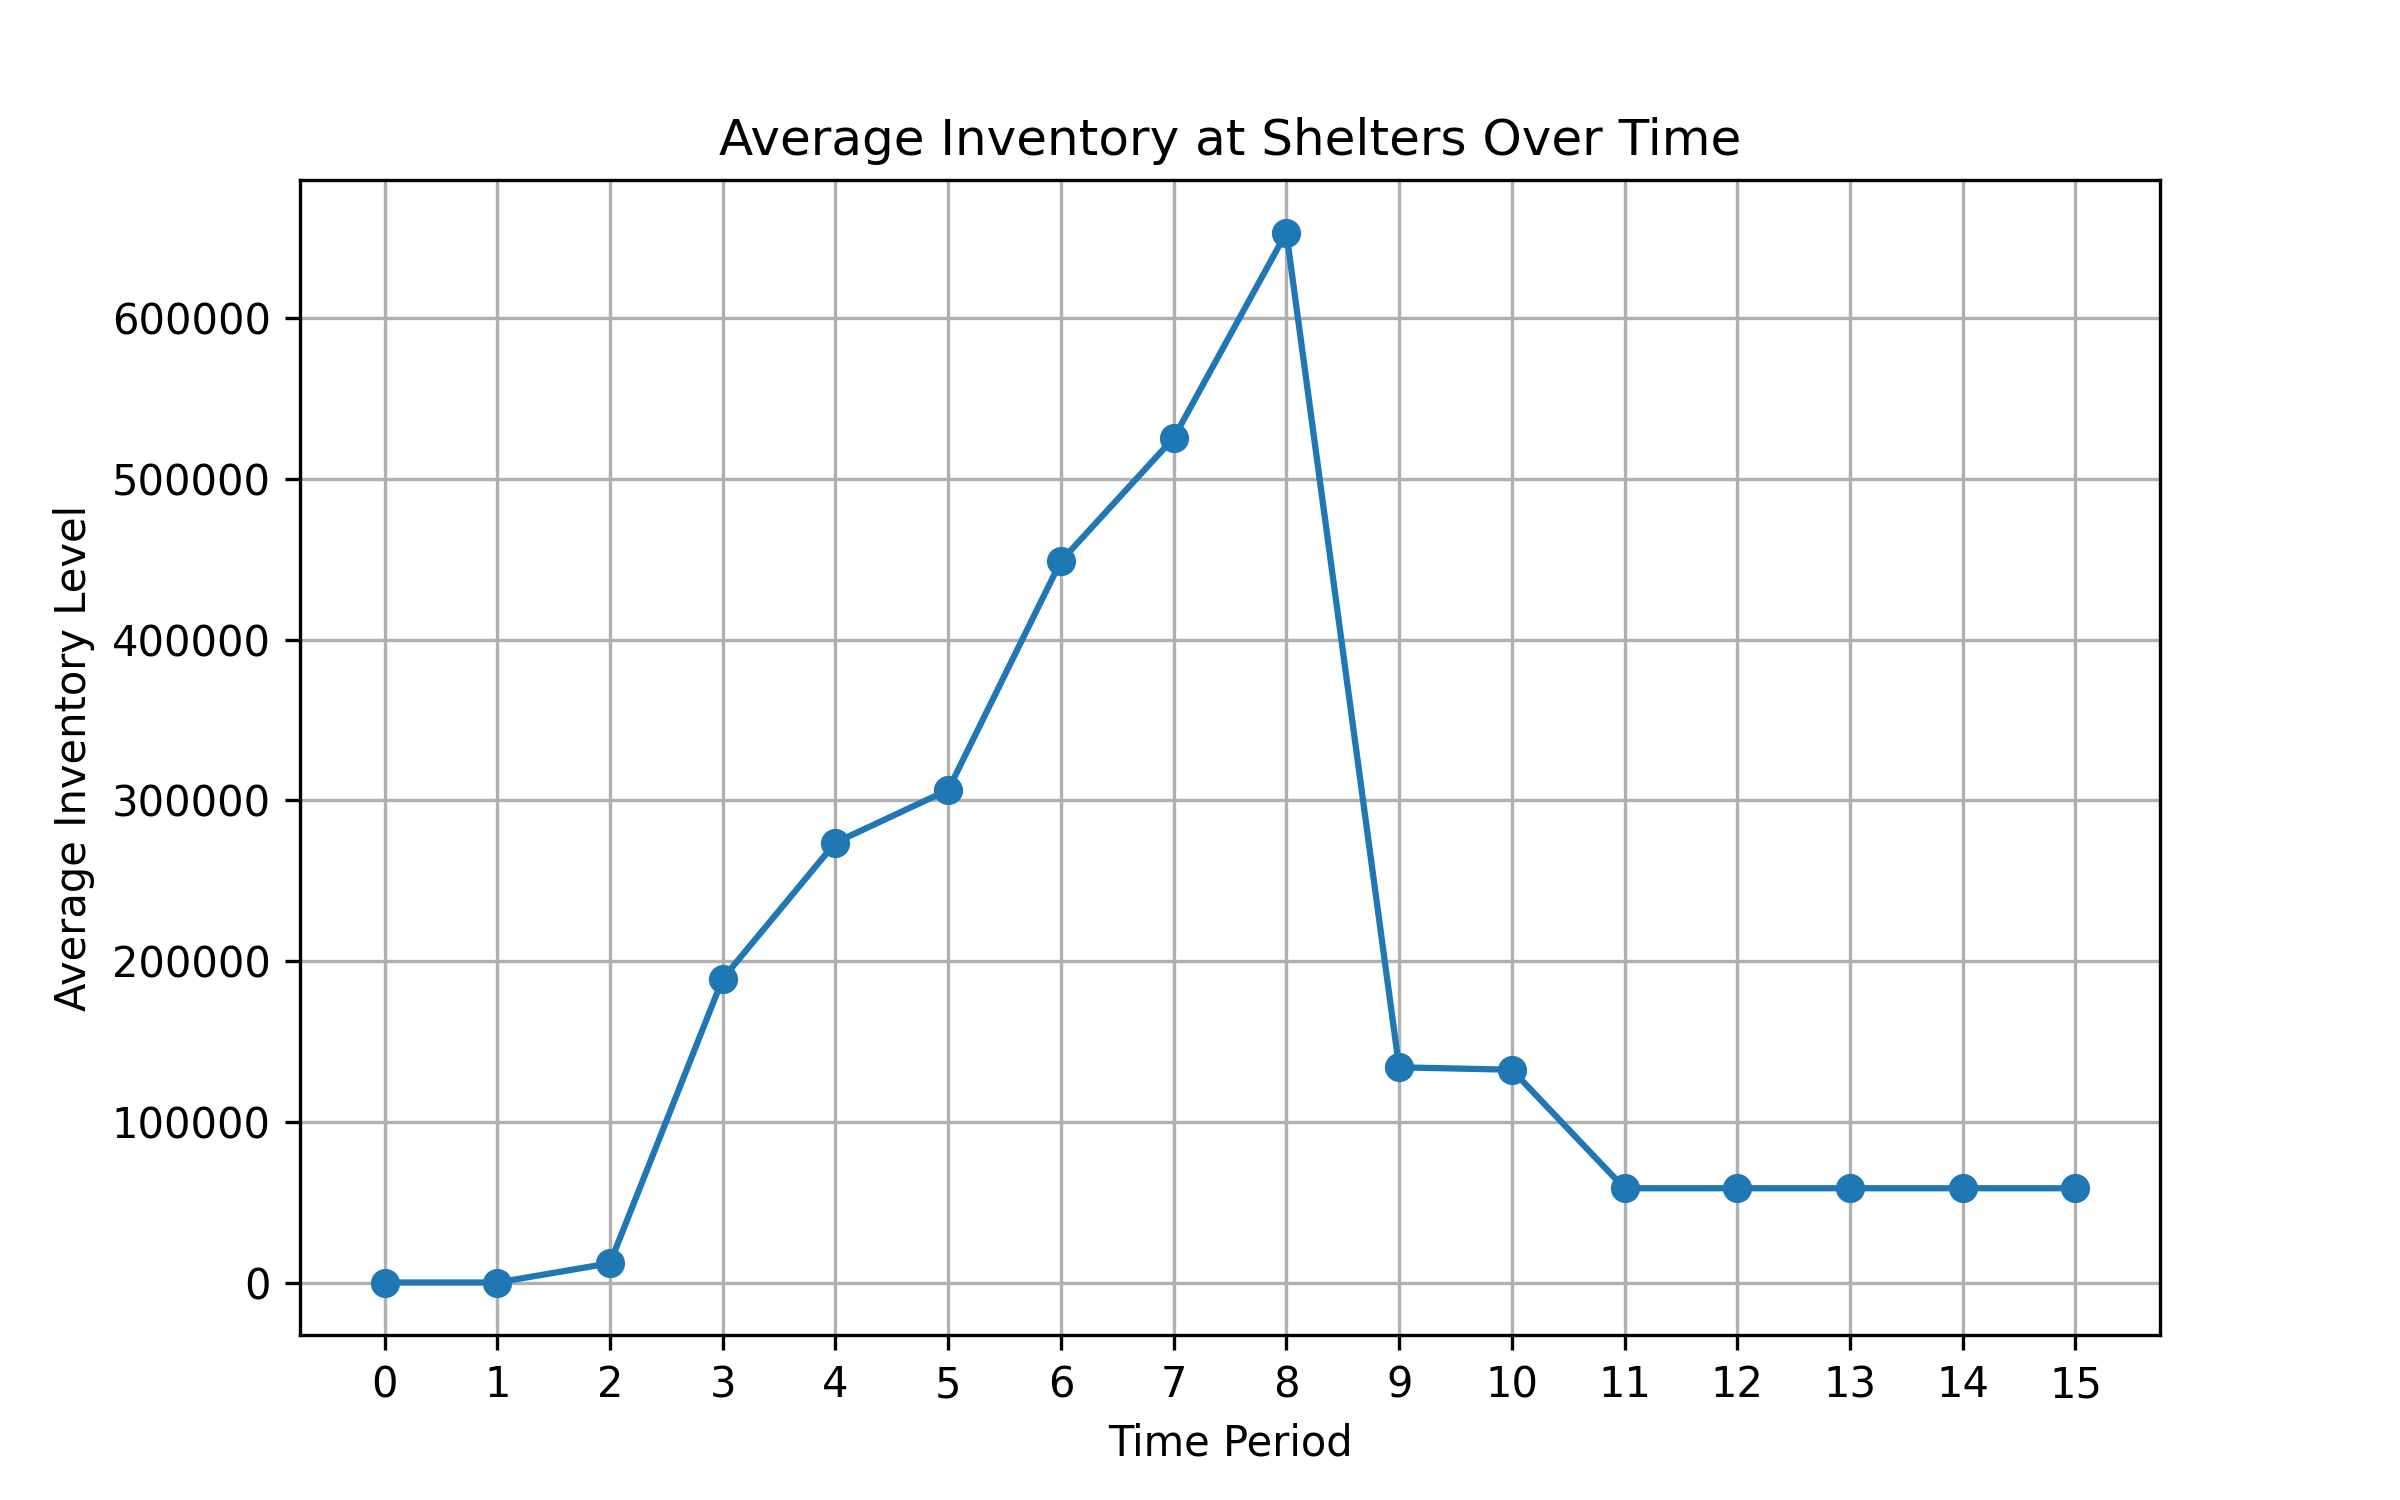
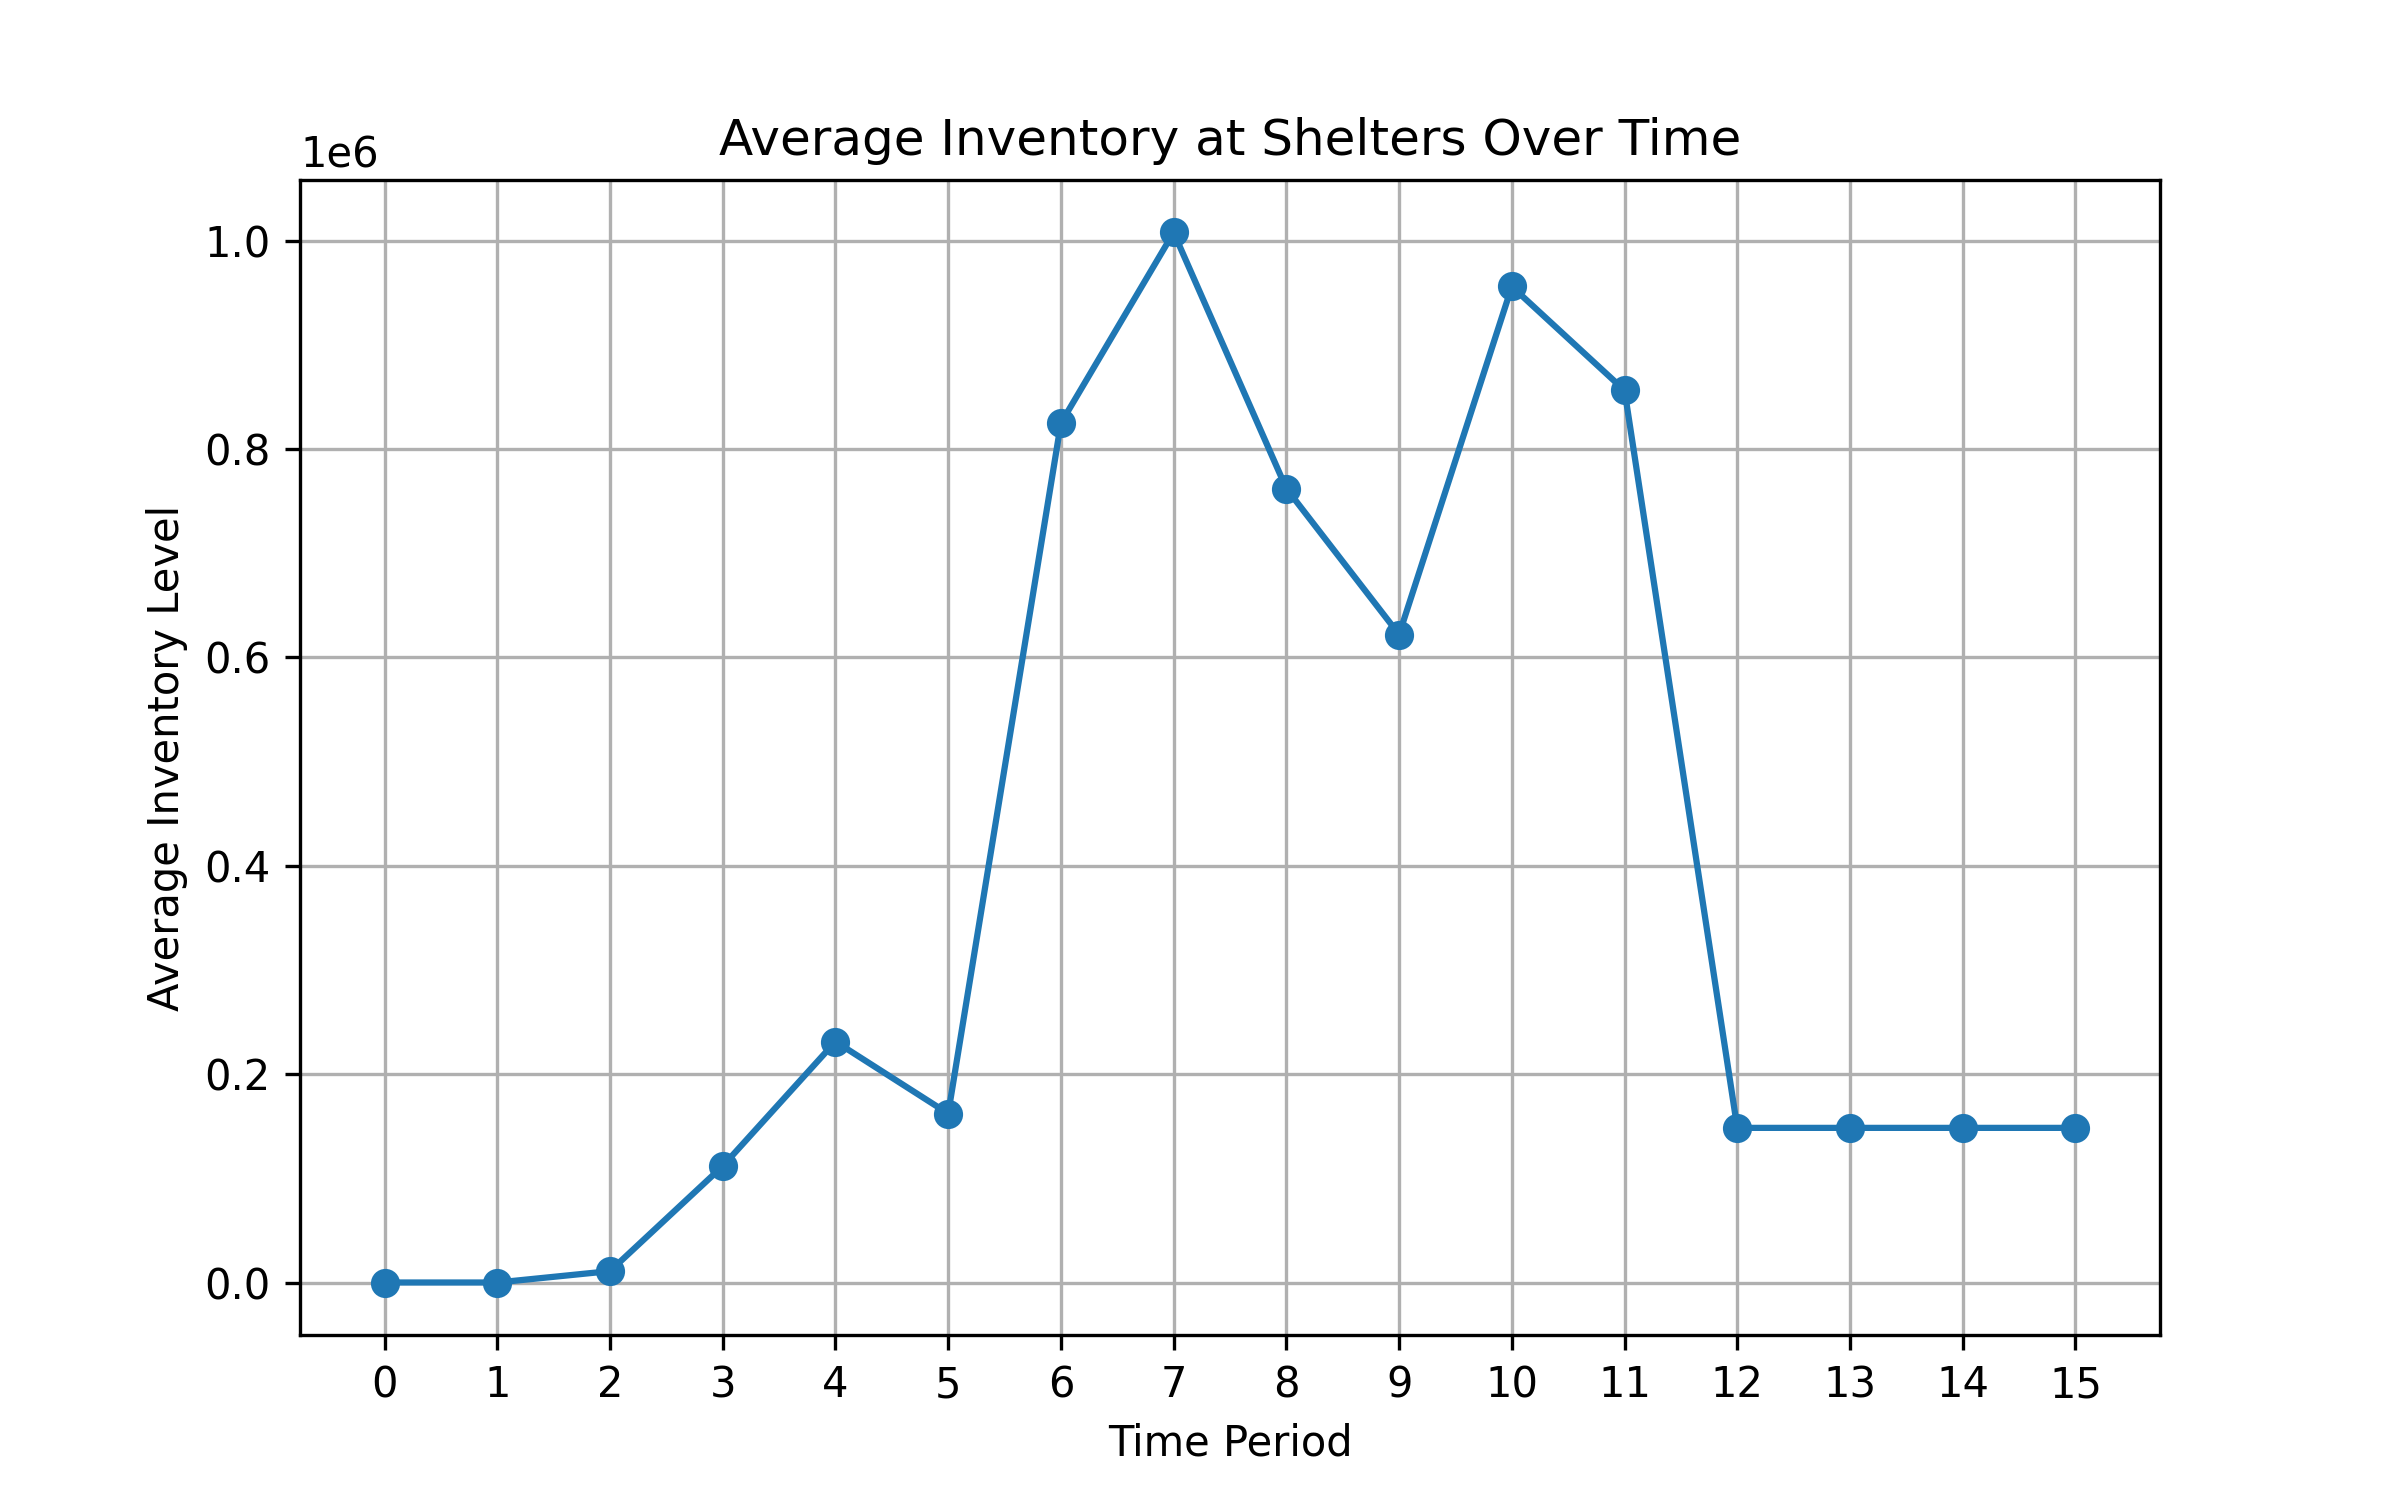
Finalizing network expansion

diff --git a/mssp/main.py b/mssp/main.py
@@ -39,6 +39,7 @@ if __name__ == "__main__":
     parser.add_argument("-tilda", "--t_tilda", type=int, help="Waiting time (t_tilda) before starting the Wait-and-See (WS) 2SSP model") 
     parser.add_argument("-nsm", "--num_sce_mean", type=int, default=None, help="Number of scenarios used to compute mean demand for deterministic RH (only used when -sm 4 and -ns 1)") # Deterministic mean value RH
     parser.add_argument("-dep", action="store_true", help="Use deprivation-cost multistage model in solution method 6")
+    parser.add_argument("-ex", "--exp_net", action="store_true", help="Activate reviewer experiment: expand multi-period travel arcs using auxiliary waypoint nodes.")
 
     args = parser.parse_args()
 
@@ -51,7 +52,8 @@ if __name__ == "__main__":
     network_processor.commodity = args.commodity
     network_processor.define_sets() # Now call the methods using this instance
     network_processor.define_parameters(args.travel_time)
-    network_processor.expand_network()
+    if args.exp_net:
+        network_processor.expand_network()
 
     demand_processor = DemandData(args.num_sce, args.instance_version, args.nbOS, params) # Create an instance of the DemandData class
 

diff --git a/mssp/multistage_model.py b/mssp/multistage_model.py
@@ -49,6 +49,30 @@ class MultiStageSPModel:
         self.alpha = 0.1 # Watch hardcoding
         self.mc_ins = mc_ins
 
+        print("\n========== NETWORK SUMMARY ==========")
+
+        print(f"V  (total nodes)      : {self.V}")
+        print(f"V0 (Suppliers)        : {self.V0}")
+        print(f"V1                    : {self.V1}")
+        print(f"V2                    : {self.V2}")
+        print(f"V3                    : {self.V3}")
+
+        print(f"\nNumber of arcs        : {len(self.A)}")
+
+        print(f"\nt_ij shape            : {self.t_ij.shape}")
+        print(self.t_ij)
+
+        print(f"\nm_ij dimensions       : {len(self.m_ij)} x {len(self.m_ij[0])}")
+
+        print(f"\nNumber of capacity arcs in K_ijt : {sum(len(self.K_ijt[i]) for i in self.K_ijt)}")
+
+        if hasattr(network_processor, "V_aux"):
+            print(f"\nAuxiliary nodes       : {network_processor.V_aux}")
+            print(f"Number of aux nodes   : {len(network_processor.V_aux)}")
+
+        print("=====================================\n")
+        # exit(0)
+
         # Define delta indicator
         if self.travel_time == 2:
             self.delta = []        

diff --git a/mssp/network_data.py b/mssp/network_data.py
@@ -331,4 +331,25 @@ class NetworkData:
             for t in range(self.T):
                 self.K_ijt_exp[i][j][t] = self.base_cap
 
-        exit(0)
+        self.V_aux = list(self.aux_map.keys())
+
+        # Expand initial inventory for auxiliary nodes
+        self.I_ir0_exp = [row.copy() for row in self.I_ir0]    # Copy original inventories
+        for aux_idx in self.V_aux:
+            self.I_ir0_exp.append([0 for _ in range(self.R)])  # Adds one zero-inventory row for each auxiliary node
+
+        # Expand penalty cost for auxiliary nodes
+        self.p_i_exp = list(self.p_i)
+        for aux_idx in self.V_aux:
+            self.p_i_exp.append(0)
+
+        # Replace original network objects with expanded network objects
+        self.V = self.V_exp
+        self.A = self.A_exp
+        self.df_V = self.df_V_exp
+        self.t_ij = self.t_ij_exp
+        self.m_ij = self.m_ij_exp
+        self.K_ijt = self.K_ijt_exp
+        self.I_ir0 = self.I_ir0_exp
+        self.p_i = self.p_i_exp
+
